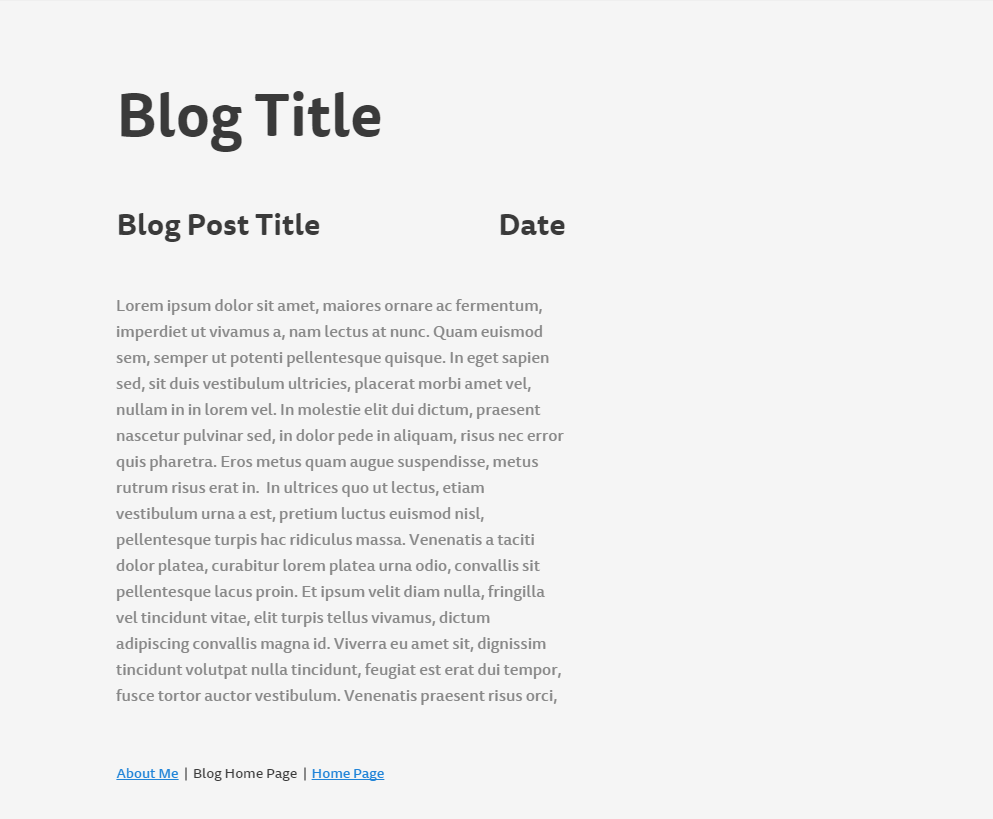
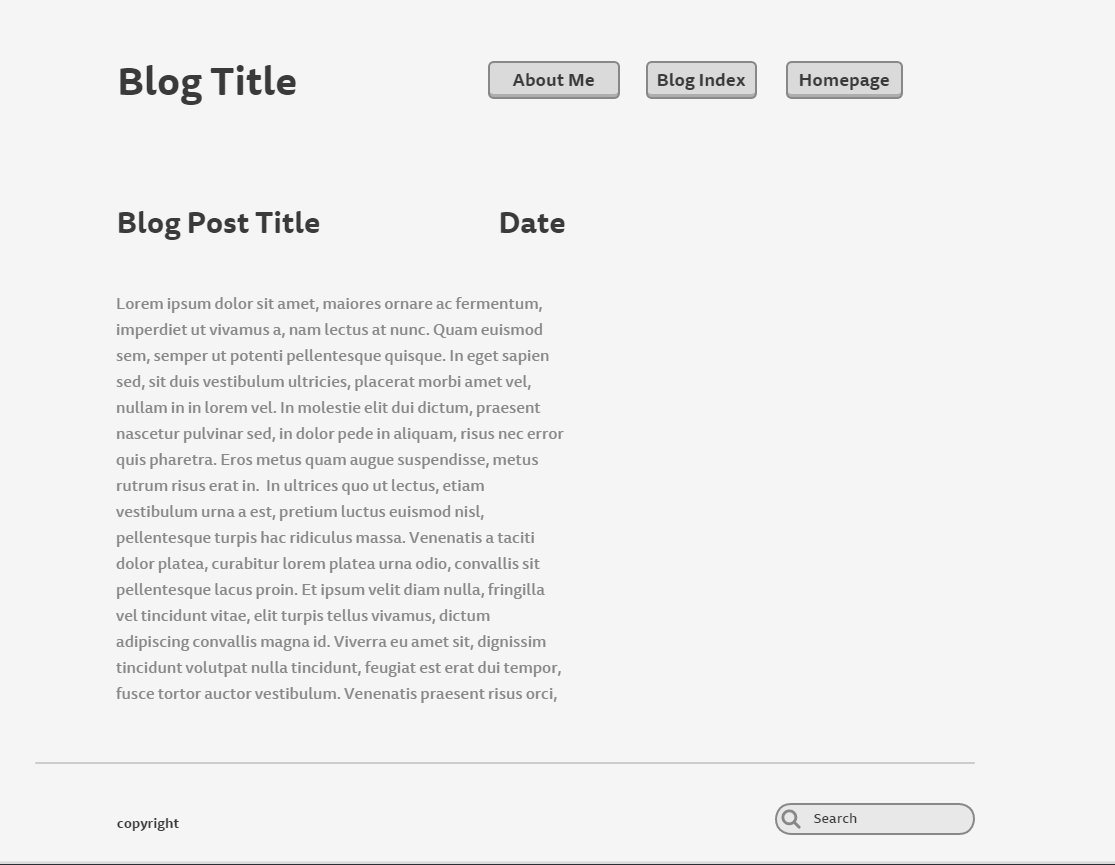
Re-style blog posts

diff --git a/stylesheets/blog.css b/stylesheets/blog.css
@@ -1,14 +1,21 @@
 body {
-	font-family:Arial,Sans-serif;
+	font-family:Verdana,Sans-serif;
 	font-size:1.5vh;
 	/*border:1px solid black;*/
 }
-header{
+/*header{
 	position:relative;
-	left: 3vw; width: 85vw;
+	left: 3vw; width:80vw; height:10vh;
+	font-size: 5vh;
+	border:1px solid black;
+	margin:2vh;padding-top:1vh;
+	background-color:#303030
+	color:#c0c0c0;
+	text-align: center;
+}*/
+header{
 	font-size: 3vh;
-	border:1px black;
-	margin:15px;padding:5px;
+	padding-top:1vh; padding-left: 1vh;
 }
 section{
 	position:relative;
@@ -19,11 +26,12 @@ section{
 }
 footer{
 	position:absolute;
-	bottom:2vh; left:3vw; width: 85vw;
+	bottom:0vh; left:5vw; width: 85vw;
+	font-size: 1vh;
 	border:1px black;
-	margin:15px;padding:5px;
+	/*margin:15px;padding:5px;
 	background-color:#f2f2f2;
-	color:#000000;
+	color:#000000;*/
 }
 img { 
 	max-width: 100%;

diff --git a/blog/css-concepts.html b/blog/css-concepts.html
@@ -9,7 +9,12 @@
 
 <body>
 	<header>
-		<h1>Nicole's Blog</h1>
+		<div class="nav">
+			Nicole's Blog				
+			<a href="../index.html">Homepage</a>
+			<a href="index.html">Blog Index</a>
+			<a href="../index.html">About Me</a>
+		</div>
 	</header>
 
 	<section>
@@ -22,9 +27,7 @@
 		<p>The margin refers to the white space between the border of this content and the border of the content around it. The border is always transparent. </p>
 	</section>
 	<footer>
-		<a href="../index.html">About Me</a> |
-		<a href="index.html">Blog Home Page</a> |
-		<a href="../index.html">Home Page</a>
+		<p>(c) Nicole L. Yee</p>
 	</footer>
 </body>
 

diff --git a/stylesheets/default.css b/stylesheets/default.css
@@ -4,9 +4,9 @@ body {
 }
 header{
 	/*position:fixed;
-	left: 255px; width: 70vw;*/
-	/*border:1px black;
-	/*margin:15px;padding:5px;padding-top:30px;*/
+	left: 255px; width: 70vw;
+	border:1px black;
+	margin:15px;padding:5px;padding-top:30px;*/
 	position:relative;
 	top:-1vh; left:-1vw;
 	height:5vh;width:100vw;
